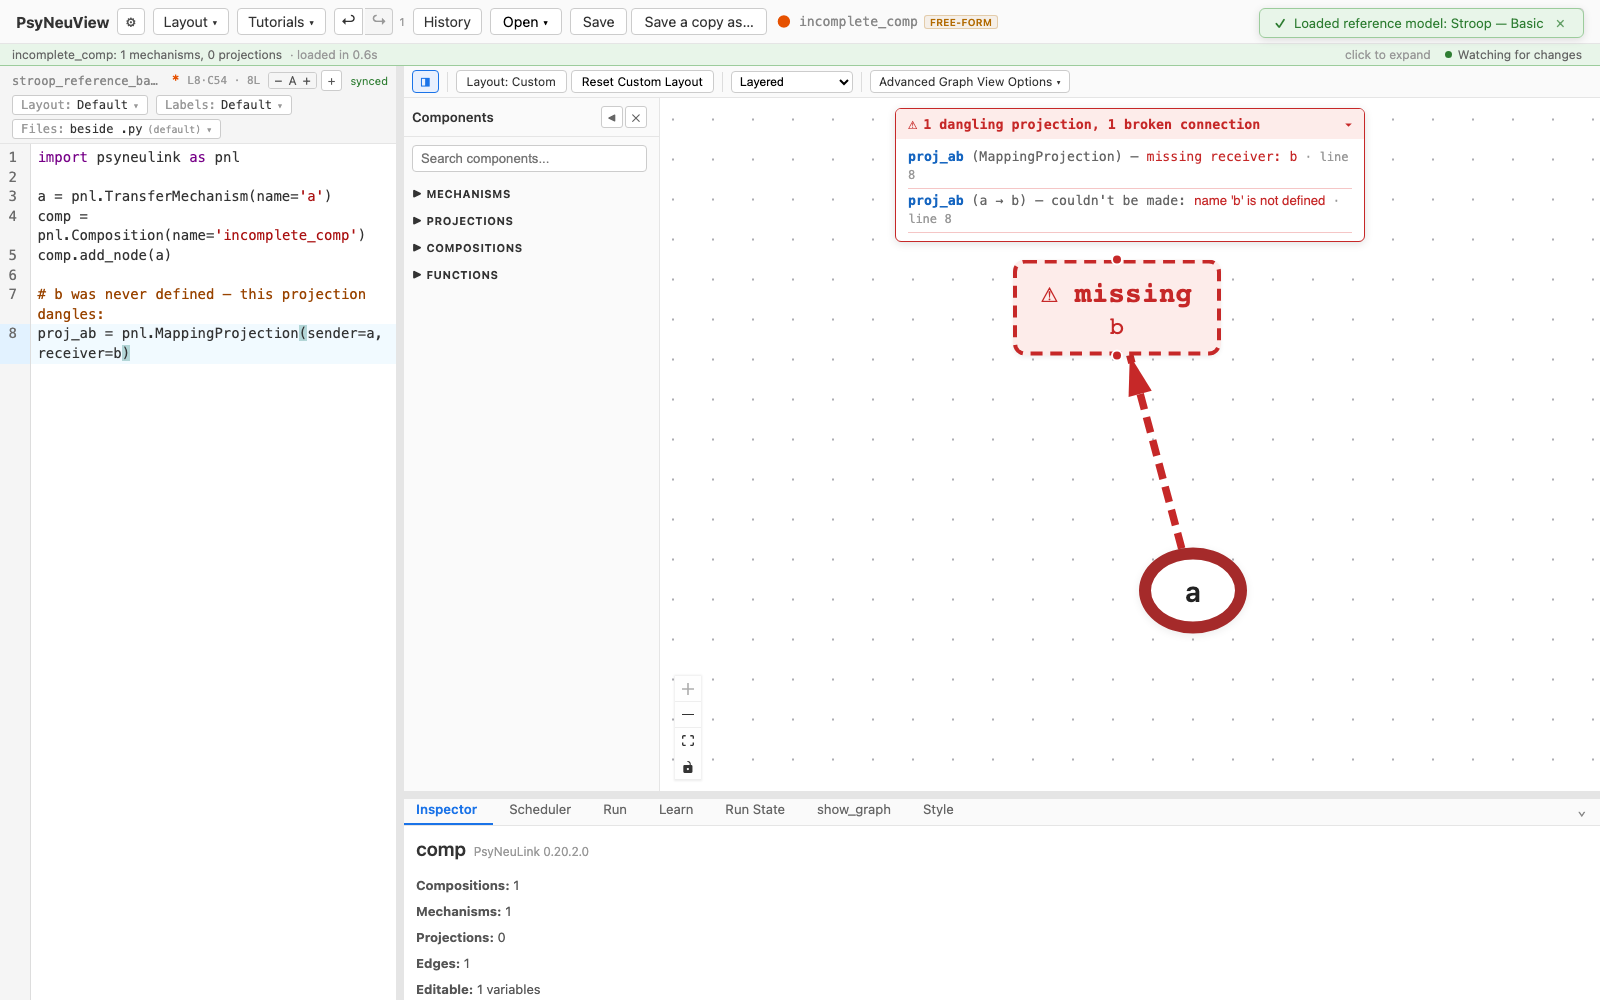
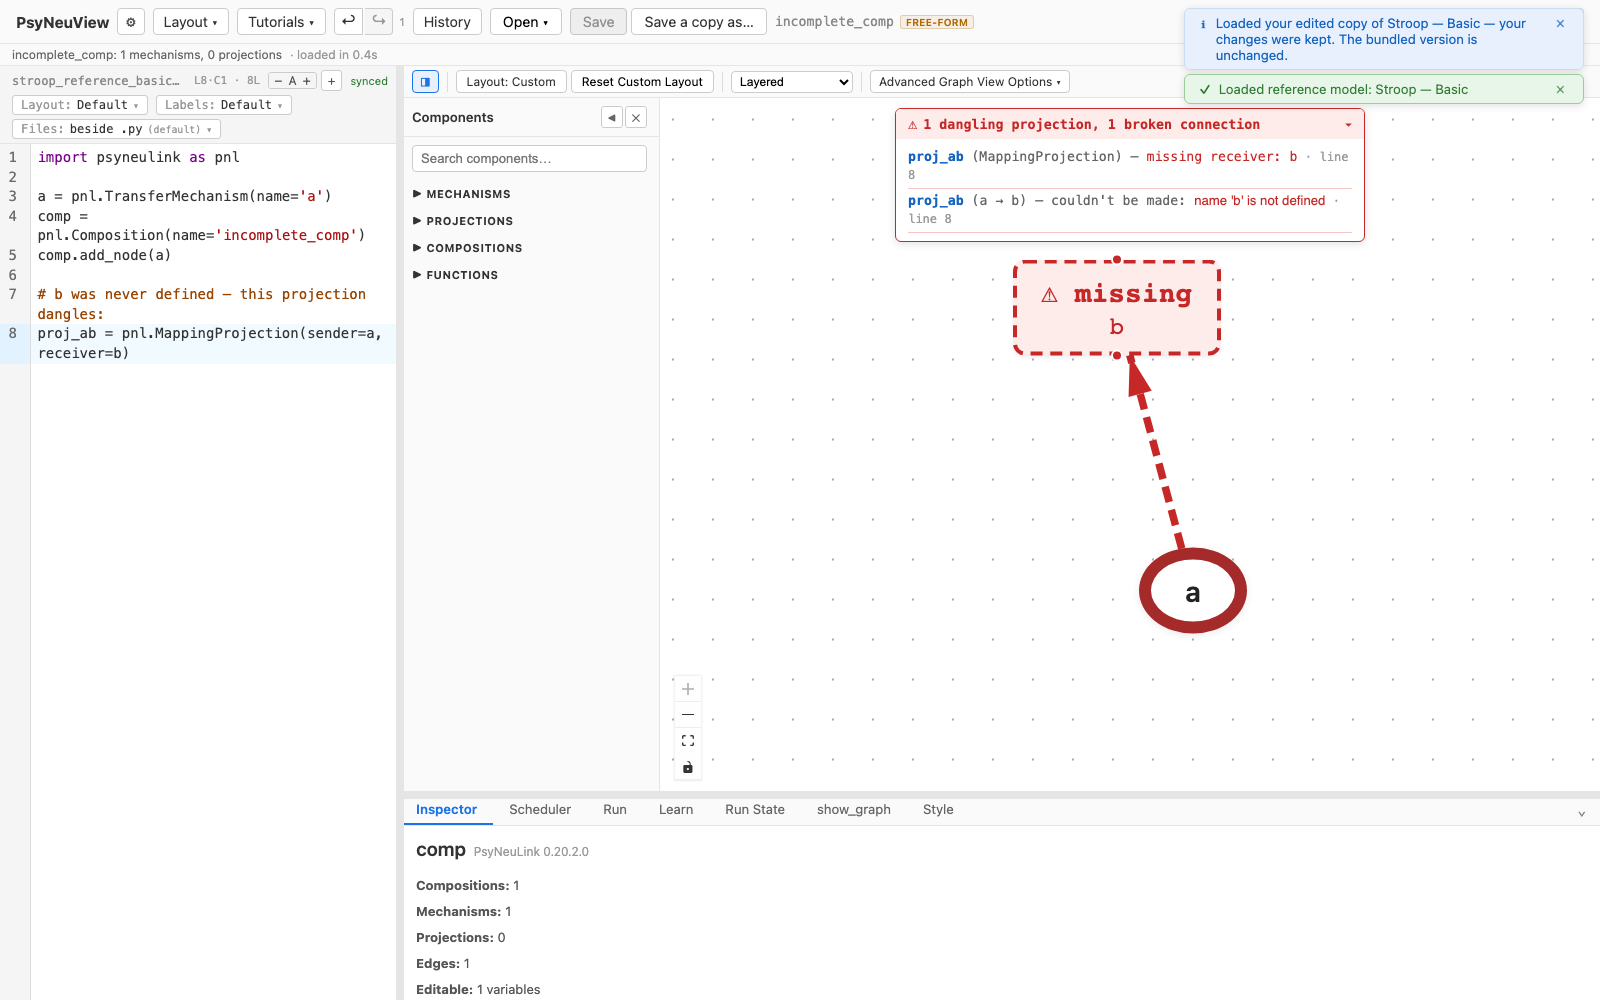
Incomplete-model tutorial: describe the unsaved preview, retake the picture (#394)

Changed region(s): [[0.75, 0.0, 1.0, 0.093], [0.4688, 0.0, 0.625, 0.031], [0.0938, 0.062, 0.125, 0.093]]

diff --git a/docs/tutorials/09-incomplete-state.md b/docs/tutorials/09-incomplete-state.md
@@ -18,13 +18,20 @@ failing, so you can keep working.
 ## An incomplete model
 
 Here the source defines node `a` and a projection `proj_ab` to a node `b` that
-was never created. PsyNeuView:
+was never created.
+
+While the edit is still unsaved, the live preview spots the undefined name
+straight away. It keeps the last graph that built and says so, with a
+"Showing the last version that built" note and the error on line 8, so the
+canvas never quietly stops matching your code. **Save** the file, and
+PsyNeuView builds what it can. It:
 
 - renders what it **can** — node `a`,
-- draws a **phantom endpoint** (the red "MISSING b") and a **dangling
+- draws a **phantom endpoint** (the red, dashed "missing b") and a **dangling
   projection** for the missing piece,
-- **surfaces the problem** — a "1 dangling projection" callout and a "Partial
-  execution: name 'b' is not defined" notice,
+- **surfaces the problem** — a "1 dangling projection, 1 broken connection"
+  callout that names the line and says why: "couldn't be made: name 'b' is
+  not defined",
 - and **stays fully usable** — the editor, canvas, and inspector keep working.
 
 ![An incomplete model: node a, a phantom missing b, and a dangling projection](assets/incomplete/01-incomplete.png)
@@ -38,8 +45,9 @@ To finish the model, define `b` (in the [code](06-editing-code.md) or via the
 
 - [x] An incomplete model **renders what it can** rather than failing.
 - [x] Missing endpoints appear as **phantom nodes** with **dangling projections**.
-- [x] Problems are **surfaced** (dangling-projection callout, partial-execution
-      notice) — never silently wrong.
+- [x] Problems are **surfaced** (the dangling-projection and broken-connection
+      callout) — never silently wrong.
+- [x] Until you save, the graph is the last one that built, and it **says so**.
 - [x] The app stays usable so you can fix the model in place.
 
 ---
